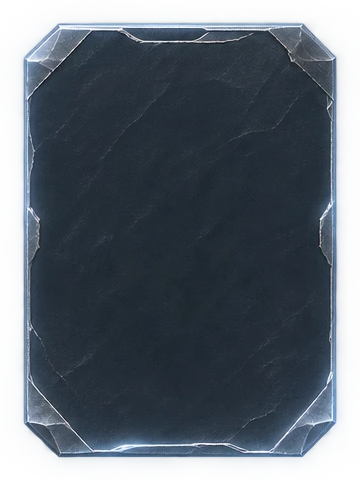
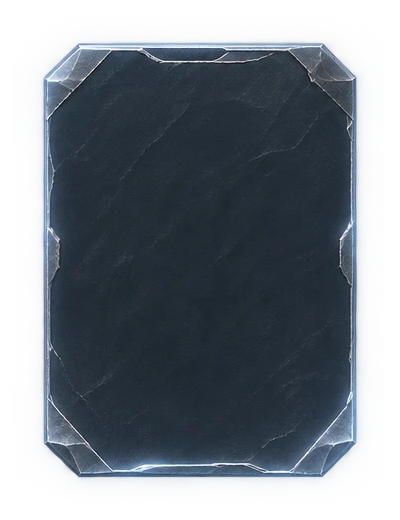
v0.10.5 W3-S14: the cards' focus glow fades out before its edge

Changed region(s): [[0.0611, 0.0312, 0.9472, 0.9688]]

diff --git a/scripts/art/cut_card_frames.py b/scripts/art/cut_card_frames.py
@@ -21,8 +21,9 @@ BACKS = os.path.join(ROOT, "art_raw", "frames", "card_backs_8.webp")
 OUT = os.path.join(ROOT, "assets", "ui", "card_frames")
 OUT_BACKS = os.path.join(ROOT, "assets", "ui", "card_backs")
 FX = os.path.join(ROOT, "assets", "ui", "fx")
-CANVAS = (360, 480)
+CANVAS = (400, 520)
 NOISE_SIZE = 512
+FADE = 16  # px: the canvas's outer ring fades to transparent
 
 
 def _runs(v):
@@ -55,12 +56,14 @@ def frames(sheet=SHEET, out=OUT, prefix="frame"):
     for ri, (y1, y2) in enumerate(rows):
         cols = cols_of[ri]
         for ci, (x1, x2) in enumerate(cols):
-            pad = 32
+            pad = 60
             # never reach past the midpoint to the neighbouring card (the glows can touch)
             wx1 = max(0, x1 - pad, (cols[ci - 1][1] + x1) // 2 if ci > 0 else 0)
             wx2 = min(px.shape[1], x2 + pad, (x2 + cols[ci + 1][0]) // 2 if ci < 3 else px.shape[1])
-            sx1, sy1 = wx1, max(0, y1 - pad)
-            sub = px[sy1 : y2 + pad, wx1:wx2]
+            wy1 = max(0, y1 - pad, (rows[ri - 1][1] + y1) // 2 if ri > 0 else 0)  # nor to the other row's
+            wy2 = min(px.shape[0], y2 + pad, (y2 + rows[ri + 1][0]) // 2 if ri < len(rows) - 1 else px.shape[0])
+            sx1, sy1 = wx1, wy1
+            sub = px[sy1:wy2, wx1:wx2]
             body = sub[..., 3] >= 128
             ys, xs = np.nonzero(body)
             bx1, bx2, by1, by2 = xs.min(), xs.max() + 1, ys.min(), ys.max() + 1
@@ -68,9 +71,15 @@ def frames(sheet=SHEET, out=OUT, prefix="frame"):
             canvas = np.zeros((ch, cw, 4), dtype=np.uint8)
             ox, oy = cx - cw // 2, cy - ch // 2
             # copy only this frame's neighbourhood (the sheet's other frames are > 30 px away)
-            lx1, ly1 = max(ox, wx1), max(oy, y1 - pad)
-            lx2, ly2 = min(ox + cw, wx2), min(oy + ch, y2 + pad)
+            lx1, ly1 = max(ox, wx1), max(oy, wy1)
+            lx2, ly2 = min(ox + cw, wx2), min(oy + ch, wy2)
             canvas[ly1 - oy : ly2 - oy, lx1 - ox : lx2 - ox] = px[ly1:ly2, lx1:lx2]
+            # the sheet itself clips a glow at its own edge (a back at the sheet's bottom): fade the outer ring to 0
+            dx = np.minimum(np.arange(cw), cw - 1 - np.arange(cw))
+            dy = np.minimum(np.arange(ch), ch - 1 - np.arange(ch))
+            ramp = np.minimum(dx[None, :], dy[:, None])
+            fade = np.clip(ramp / float(FADE), 0.0, 1.0)
+            canvas[..., 3] = (canvas[..., 3] * fade).astype(np.uint8)
             name = "%s_%d%s.png" % (prefix, ci + 1, "_focus" if ri else "")
             Image.fromarray(canvas, "RGBA").save(os.path.join(out, name))
             edge = np.concatenate([canvas[0, :, 3], canvas[-1, :, 3], canvas[:, 0, 3], canvas[:, -1, 3]])
